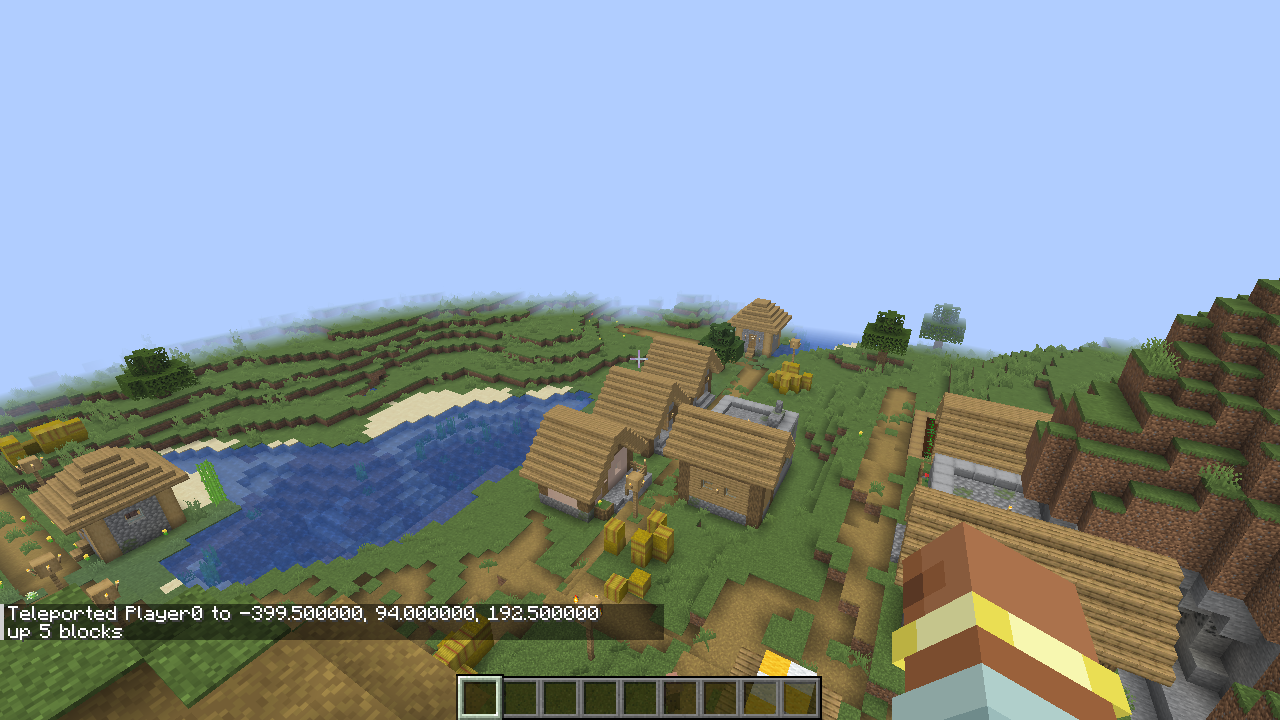
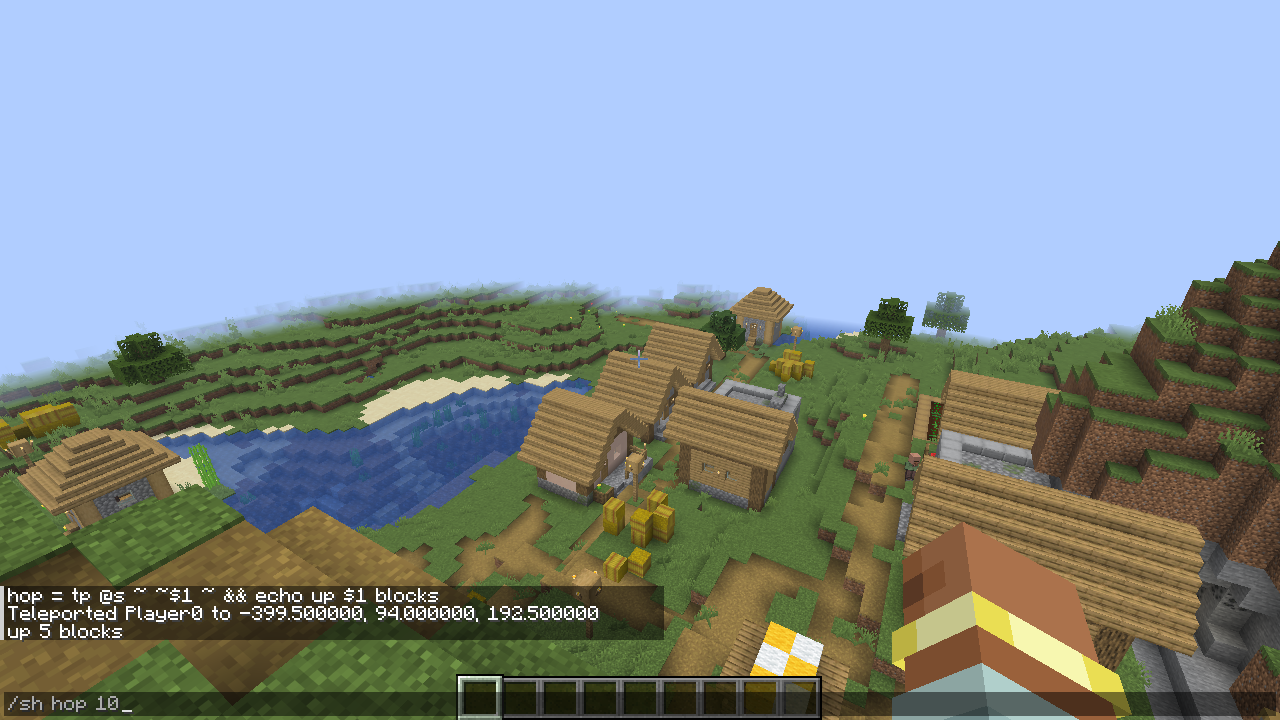
Screenshots show the alias and the job list; a bigger cookbook; each shows per-player data; locate's zero result explained

diff --git a/src/gametest/java/net/slk/bashcraft/test/BashcraftScreenshots.java b/src/gametest/java/net/slk/bashcraft/test/BashcraftScreenshots.java
@@ -41,8 +41,12 @@ public class BashcraftScreenshots implements FabricClientGameTest {
             c.waitTicks(65);
         });
         shoot(context, Path.of(out), "jobs", false, (c, s) -> {
-            type(c, s, "/sh (sleep 30s ; echo tea is ready) & echo timer started");
+            // Three timers, then only the list: what jobs shows, and the line that cancels one.
+            type(c, s, "/sh (sleep 30s ; echo tea is ready) & (sleep 45s ; echo pizza is ready) & (sleep 60s ; echo laundry is done) &");
+            c.runOnClient(client -> client.gui.hud.getChat().clearMessages(false));
             type(c, s, "/sh jobs");
+            c.runOnClient(client -> ChatProbe.open(client, "/sh kill %2"));
+            c.waitTicks(5);
         });
         shoot(context, Path.of(out), "pipe-surface", false, (c, s) -> {
             type(c, s, "/sh locate structure #village | surface | tp @s");
@@ -50,8 +54,12 @@ public class BashcraftScreenshots implements FabricClientGameTest {
             c.waitTicks(80);
         });
         shoot(context, Path.of(out), "alias", false, (c, s) -> {
+            // The alias itself (alias lists it), a call and its output, and the next call typed (the companion colours it).
             type(c, s, "/sh alias hop = 'tp @s ~ ~$1 ~ && echo up $1 blocks'");
+            type(c, s, "/sh alias");
             type(c, s, "/sh hop 5");
+            c.runOnClient(client -> ChatProbe.open(client, "/sh hop 10"));
+            c.waitTicks(5);
         });
         shoot(context, Path.of(out), "command-block", false, (c, s) -> {
             BlockPos pos = s.computeOnServer(server -> server.getPlayerList().getPlayers().getFirst().blockPosition().offset(2, 0, 0));

diff --git a/docs/guide/12-cookbook.md b/docs/guide/12-cookbook.md
@@ -1,8 +1,11 @@
 # Cookbook
 
-Ready-made chains to paste and adapt.
+Ready-made chains to paste and adapt, grouped by what they're for. Like the rest of the guide, they're written for a
+creative world with cheats on.
 
-## Village trip
+## Getting around
+
+### Village trip
 
 Find the nearest village and land on the ground there.
 
@@ -12,17 +15,109 @@ Find the nearest village and land on the ground there.
 /sh locate structure #village | surface | tp @s
 ```
 
-## Feed everyone
+### A desert, or else badlands
 
-Give every online player some bread.
+Look for one biome and fall back to another; whichever is found gets piped on.
 
 **Give it a try!**
 
 ```text
-/sh list | each give {value} minecraft:bread 3
+/sh (locate biome minecraft:desert || locate biome minecraft:badlands) | surface | tp @s
 ```
 
-## Quick home
+### Mark a spot and come back
+
+Remember where you are, wander off, then return.
+
+**Give it a try!**
+
+```text
+/sh mark_x=$(data get entity @s Pos[0]) ; mark_z=$(data get entity @s Pos[2]) ; echo marked $mark_x $mark_z
+/sh tp @s ~30 ~ ~
+/sh tp @s $mark_x ~ $mark_z
+```
+
+### A soft landing
+
+Shoot up into the sky and float back down.
+
+**Give it a try!**
+
+```text
+/sh effect give @s minecraft:slow_falling 10 && tp @s ~ ~30 ~
+```
+
+## Players
+
+### Who's online
+
+**Give it a try!**
+
+```text
+/sh list | each echo {value} is online
+```
+
+### How many are online
+
+`{result}` is the previous command's number — for `/list`, how many players are online.
+
+**Give it a try!**
+
+```text
+/sh list | echo {result} players online
+```
+
+### Everyone's level
+
+`each` runs a command once per player, so each one can be different.
+
+**Give it a try!**
+
+```text
+/sh list | each data get entity {value} XpLevel
+```
+
+## Time and weather
+
+### Countdown
+
+**Give it a try!**
+
+```text
+/sh echo 3 ; sleep 1s ; echo 2 ; sleep 1s ; echo 1 ; sleep 1s ; title @s title "Go!"
+```
+
+### Lights out
+
+Night for five seconds, then day again.
+
+**Give it a try!**
+
+```text
+/sh time set night ; sleep 5s ; time set day
+```
+
+### A short shower
+
+**Give it a try!**
+
+```text
+/sh weather rain ; sleep 5s ; weather clear
+```
+
+### Remind me
+
+A timer that runs on its own while you carry on.
+
+**Give it a try!**
+
+```text
+/sh (sleep 5s ; title @s title "Time's up!") & echo reminder set
+```
+
+## Shortcuts
+
+### Quick home
 
 A command of your own that takes you home.
 
@@ -33,33 +128,20 @@ A command of your own that takes you home.
 /sh home
 ```
 
-## Countdown
+### A starter kit
+
+One word for a handful of `give`s.
 
 **Give it a try!**
 
 ```text
-/sh echo 3 ; sleep 1s ; echo 2 ; sleep 1s ; echo 1 ; sleep 1s ; title @s title "Go!"
+/sh alias kit = 'give @s minecraft:bread 8 && give @s minecraft:torch 16 && give @s minecraft:stone_pickaxe'
+/sh kit
 ```
 
-## Lights out
+## Building and bookkeeping
 
-Night for five seconds, then day again.
-
-**Give it a try!**
-
-```text
-/sh time set night ; sleep 5s ; time set day
-```
-
-## Who's online
-
-**Give it a try!**
-
-```text
-/sh list | each echo {value} is online
-```
-
-## A quick pillar
+### A quick pillar
 
 Stack three gold blocks beside you, stopping at the first one that can't be placed.
 
@@ -69,7 +151,7 @@ Stack three gold blocks beside you, stopping at the first one that can't be plac
 /sh setblock ~2 ~ ~ minecraft:gold_block && setblock ~2 ~1 ~ minecraft:gold_block && setblock ~2 ~2 ~ minecraft:gold_block
 ```
 
-## Remember when you started
+### Remember when you started
 
 **Give it a try!**
 

diff --git a/docs/guide/13-troubleshooting.md b/docs/guide/13-troubleshooting.md
@@ -59,6 +59,12 @@ everything after `/sh` is just text.) The [client companion](08-client-companion
 In [transparent mode](07-without-sh.md) every command after an operator must start with `/`: `/a && /b`, not
 `/a && b`.
 
+## `/locate` "fails" when I'm already there
+
+`/locate` reports the distance as its result, and a result of 0 counts as a failure for `&&` and `||` (the
+command-block rule). So standing right on the structure makes `locate … || …` take the fallback. A pipe still passes
+the coordinates along: only `&&` and `||` care about the result.
+
 ## `@s` does nothing in my command block
 
 A command block isn't an entity, so `@s` matches nothing there. Use `@p` or another selector.

diff --git a/docs/guide/04-pipes-and-builtins.md b/docs/guide/04-pipes-and-builtins.md
@@ -53,11 +53,11 @@ Some commands produce lists: `/list` gives the online players, `/tag … list`, 
 
 ```text
 /sh list | each echo {value} is online
-/sh list | each give {value} minecraft:bread 3
+/sh list | each data get entity {value} XpLevel
 /sh echo apple | grep -x apple && echo found it
 ```
 
-The second line gives bread to everyone online. `grep` fails if nothing is left, so `&&` works as a test.
+The second line reads every online player's own experience level — something one command for `@a` can't do. `grep` fails if nothing is left, so `&&` works as a test.
 
 ## Keep a value with `store`
 

diff --git a/docs/guide/06-time.md b/docs/guide/06-time.md
@@ -41,7 +41,7 @@ background, is listed, and is cancelled before it fires — all in one line, so 
 
 You'll see the timer listed as `%1`, and `too late` never appears.
 
-![A timer listed by jobs](../images/screens/jobs.png)
+![Three timers listed by jobs](../images/screens/jobs.png)
 
 ## Timers that repeat
 
